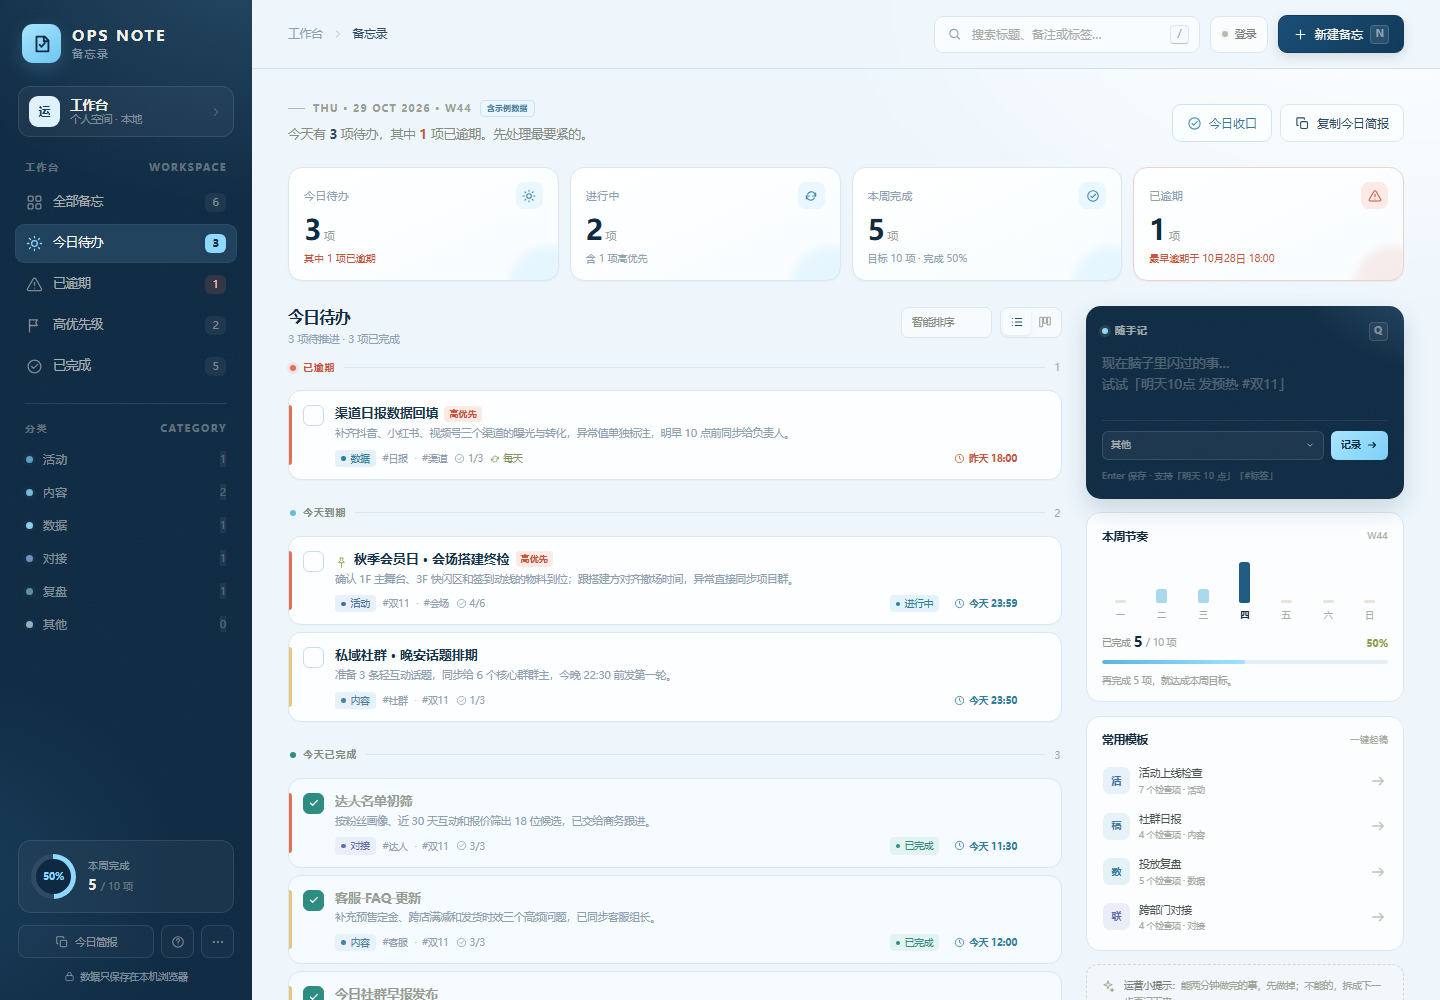
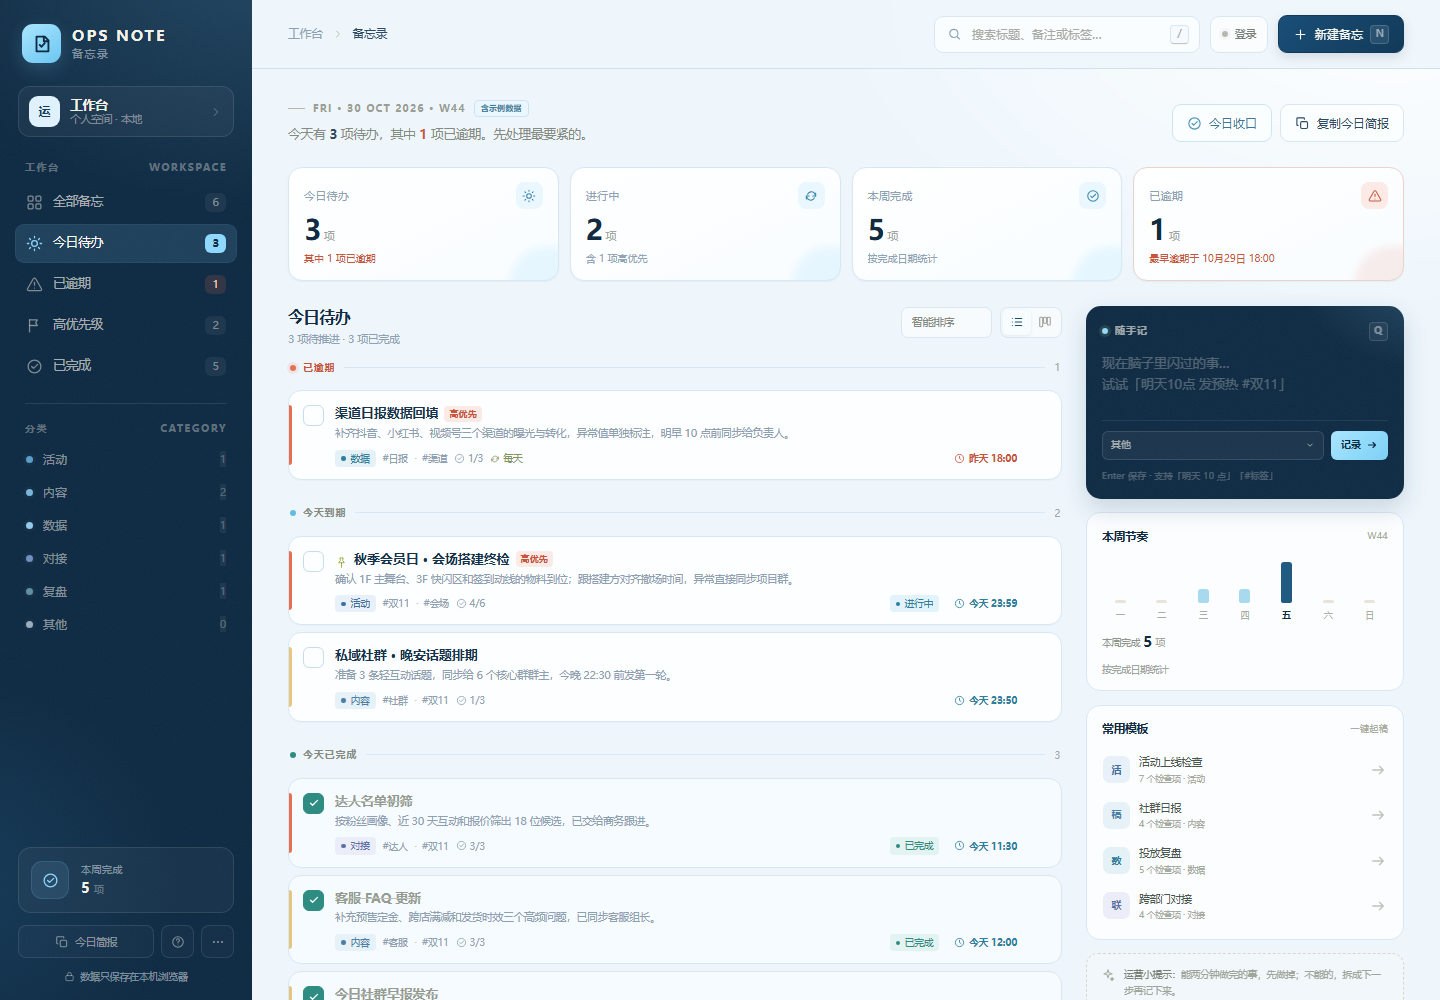
Remove weekly target and simplify weekly summary

diff --git a/index.html b/index.html
@@ -244,19 +244,18 @@ svg.icon { width: 18px; height: 18px; fill: none; stroke: currentColor; stroke-w
   border-radius: 13px;
   background: rgba(255, 255, 255, .035);
 }
-.ring {
-  --deg: 0deg;
-  width: 45px;
-  height: 45px;
+.side-week-icon {
+  width: 38px;
+  height: 38px;
   flex: none;
-  border-radius: 50%;
   display: grid;
   place-items: center;
-  background: conic-gradient(var(--lime) var(--deg), rgba(255, 255, 255, .075) 0);
-  position: relative;
+  border: 1px solid rgba(143, 216, 255, .14);
+  border-radius: 11px;
+  background: rgba(143, 216, 255, .10);
+  color: var(--lime);
 }
-.ring::before { content: ""; position: absolute; inset: 5px; border-radius: 50%; background: var(--forest); }
-.ring b { position: relative; font-size: 10px; font-weight: 700; color: var(--lime); letter-spacing: -.02em; }
+.side-week-icon .icon { width: 17px; height: 17px; }
 .side-week-copy { min-width: 0; }
 .side-week-copy span { display: block; font-size: 10px; color: rgba(244, 241, 231, .4); letter-spacing: .04em; }
 .side-week-copy b { font-size: 14px; font-weight: 600; }
@@ -1579,10 +1578,10 @@ body{background:var(--paper)}
 
     <div class="sidebar-foot">
       <div class="side-week">
-        <div class="ring" id="sideRing"><b id="ringPct">0%</b></div>
+        <div class="side-week-icon"><svg class="icon"><use href="#i-check-circle"/></svg></div>
         <div class="side-week-copy">
           <span>本周完成</span>
-          <b id="ringDone">0</b> <em>/ 10 项</em>
+          <b id="sideWeekDone">0</b> <em>项</em>
         </div>
       </div>
       <div class="side-actions">
@@ -1652,7 +1651,7 @@ body{background:var(--paper)}
         <div class="stat-card" style="--glow:rgba(63,122,89,.14);--icon-bg:#e8f2eb;--icon-color:#4d7e60;">
           <div class="stat-top"><span class="stat-label">本周完成</span><span class="stat-icon"><svg class="icon"><use href="#i-check-circle"/></svg></span></div>
           <div class="stat-value"><b id="statWeek">0</b><span>项</span></div>
-          <p class="stat-hint" id="statWeekHint">目标 10 项</p>
+          <p class="stat-hint" id="statWeekHint">按完成日期统计</p>
         </div>
         <div class="stat-card" id="overdueCard" style="--glow:rgba(223,90,61,.12);--icon-bg:#fbeae4;--icon-color:#c66048;">
           <div class="stat-top"><span class="stat-label">已逾期</span><span class="stat-icon"><svg class="icon"><use href="#i-alert"/></svg></span></div>
@@ -1717,11 +1716,9 @@ body{background:var(--paper)}
             <div class="rail-head"><h3>本周节奏</h3><span id="weekLabel">W44</span></div>
             <div class="week-bars" id="weekBars"></div>
             <div class="week-summary">
-              <div class="week-summary-left"><span>已完成</span><b id="weekDone">0</b><em>/ <span id="weekTarget">10</span> 项</em></div>
-              <span class="week-pct" id="weekPct">0%</span>
+              <div class="week-summary-left"><span>本周完成</span><b id="weekDone">0</b><em>项</em></div>
             </div>
-            <div class="progress-track"><span id="weekProgress" style="width:0%"></span></div>
-            <p class="week-message" id="weekMessage">再完成几项，就达成本周目标。</p>
+            <p class="week-message">按完成日期统计</p>
           </section>
 
           <section class="rail-card">
@@ -2004,7 +2001,6 @@ body{background:var(--paper)}
      ============================================================ */
   const STORAGE_KEY = "opsnote.data.v1";
   const VIEW_KEY = "opsnote.view.v1";
-  const WEEK_TARGET = 10;
   const TYPE_META = {
     "活动": { cls: "type-activity", glyph: "活" },
     "内容": { cls: "type-content", glyph: "稿" },
@@ -3312,7 +3308,6 @@ body{background:var(--paper)}
     const highDoing = doingList.filter(m => m.priority === "high").length;
     const weekDone = weekDoneMemos().length;
     const overdue = overdueMemos().length;
-    const pct = Math.min(100, Math.round((weekDone / WEEK_TARGET) * 100));
 
     $("#statToday").textContent = today;
     $("#statTodayHint").textContent = overdue ? "其中 " + overdue + " 项已逾期" : today ? "都在今天推进" : "今天暂时没有到期事项";
@@ -3322,7 +3317,7 @@ body{background:var(--paper)}
     $("#statDoingHint").textContent = highDoing ? "含 " + highDoing + " 项高优先" : doing ? "保持推进，及时收口" : "还没有进行中的事项";
 
     $("#statWeek").textContent = weekDone;
-    $("#statWeekHint").textContent = "目标 " + WEEK_TARGET + " 项 · 完成 " + pct + "%";
+    $("#statWeekHint").textContent = "按完成日期统计";
 
     $("#statOverdue").textContent = overdue;
     const oldest = overdueMemos().sort((a, b) => (parseDate(a.due)?.getTime() || 0) - (parseDate(b.due)?.getTime() || 0))[0];
@@ -3355,13 +3350,8 @@ body{background:var(--paper)}
     });
 
     const weekDone = weekDoneMemos().length;
-    const pct = Math.min(100, Math.round((weekDone / WEEK_TARGET) * 100));
-    const ring = $("#sideRing");
-    ring.style.setProperty("--deg", (pct * 3.6) + "deg");
-    $("#ringPct").textContent = pct + "%";
-    $("#ringDone").textContent = weekDone;
-    const ringTarget = $(".side-week-copy em");
-    if (ringTarget) ringTarget.textContent = "/ " + WEEK_TARGET + " 项";
+    const sideWeekDone = $("#sideWeekDone");
+    if (sideWeekDone) sideWeekDone.textContent = weekDone;
   }
 
   function renderWeek() {
@@ -3383,17 +3373,8 @@ body{background:var(--paper)}
         '<span class="week-label">' + labels[i] + "</span></div>";
     }).join("");
 
-    const weekDone = done.length;
-    const pct = Math.min(100, Math.round((weekDone / WEEK_TARGET) * 100));
-    $("#weekDone").textContent = weekDone;
-    $("#weekTarget").textContent = WEEK_TARGET;
-    $("#weekPct").textContent = pct + "%";
-    $("#weekProgress").style.width = pct + "%";
+    $("#weekDone").textContent = done.length;
     $("#weekLabel").textContent = "W" + pad(weekNumber(now));
-    const remaining = Math.max(0, WEEK_TARGET - weekDone);
-    $("#weekMessage").textContent = remaining > 0
-      ? "再完成 " + remaining + " 项，就达成本周目标。"
-      : "本周目标已达成，保持节奏。";
   }
 
   /* ============================================================

diff --git a/sw.js b/sw.js
@@ -1,7 +1,7 @@
 /* 备忘录 PWA Service Worker
  * 更新应用后请修改 CACHE_VERSION，让旧缓存自动失效。
  */
-const CACHE_VERSION = "ops-note-v1.0.3";
+const CACHE_VERSION = "ops-note-v1.0.4";
 const CORE_ASSETS = [
   "./",
   "./index.html",

diff --git a/README.md b/README.md
@@ -173,8 +173,8 @@ npx vercel --prod
 修改前端资源后，建议同时修改 `sw.js` 顶部的缓存版本，否则老用户可能继续看到旧缓存：
 
 ```js
-// 原来是 v1.0.3，改成 v1.0.4
-const CACHE_VERSION = "ops-note-v1.0.4";
+// 原来是 v1.0.4，改成 v1.0.5
+const CACHE_VERSION = "ops-note-v1.0.5";
 ```
 
 Service Worker 会在下一次访问时更新缓存。
